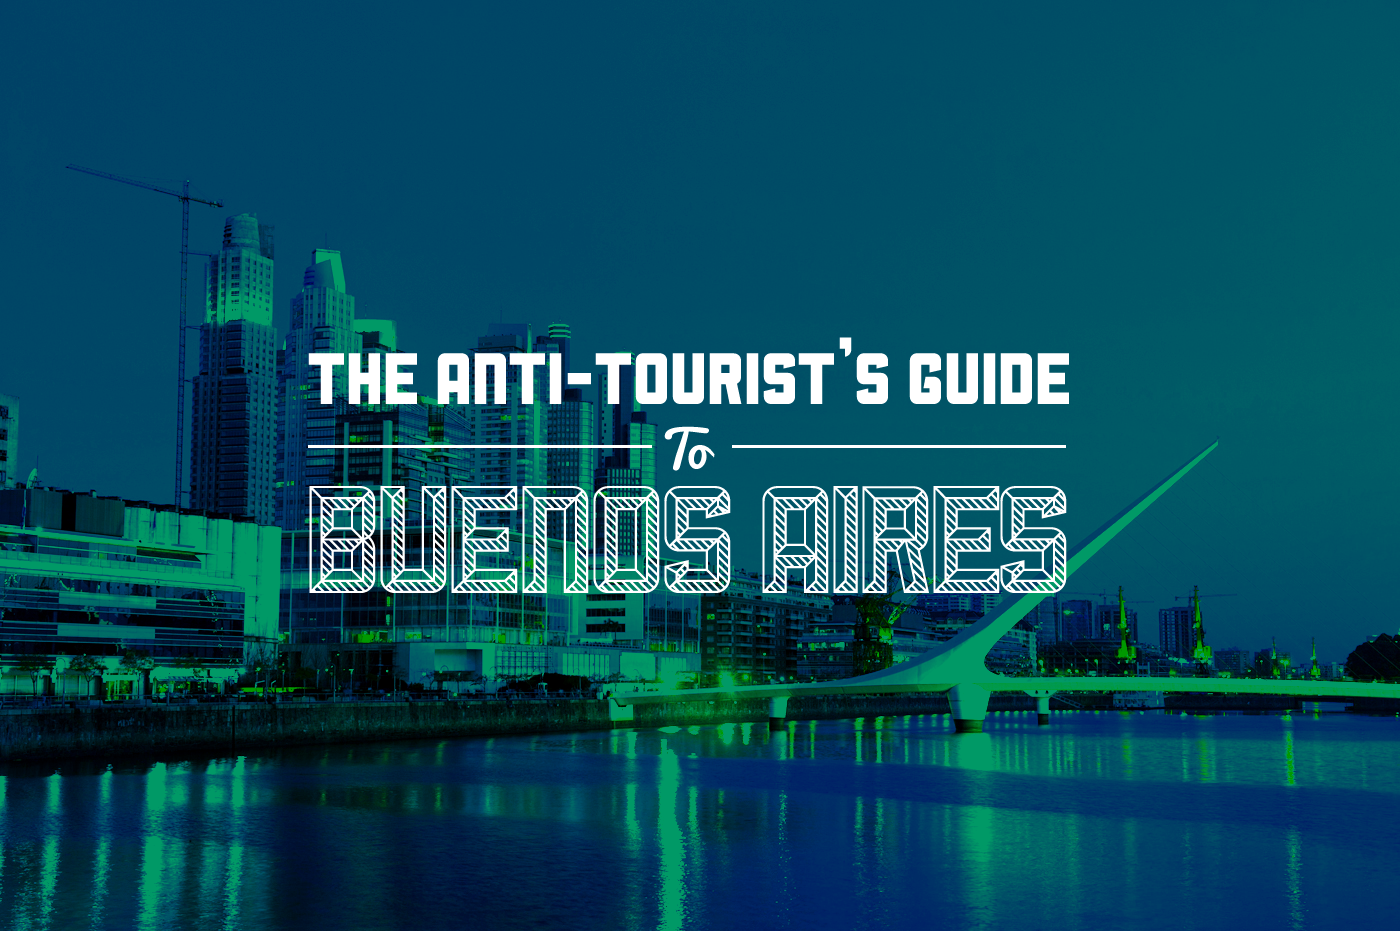
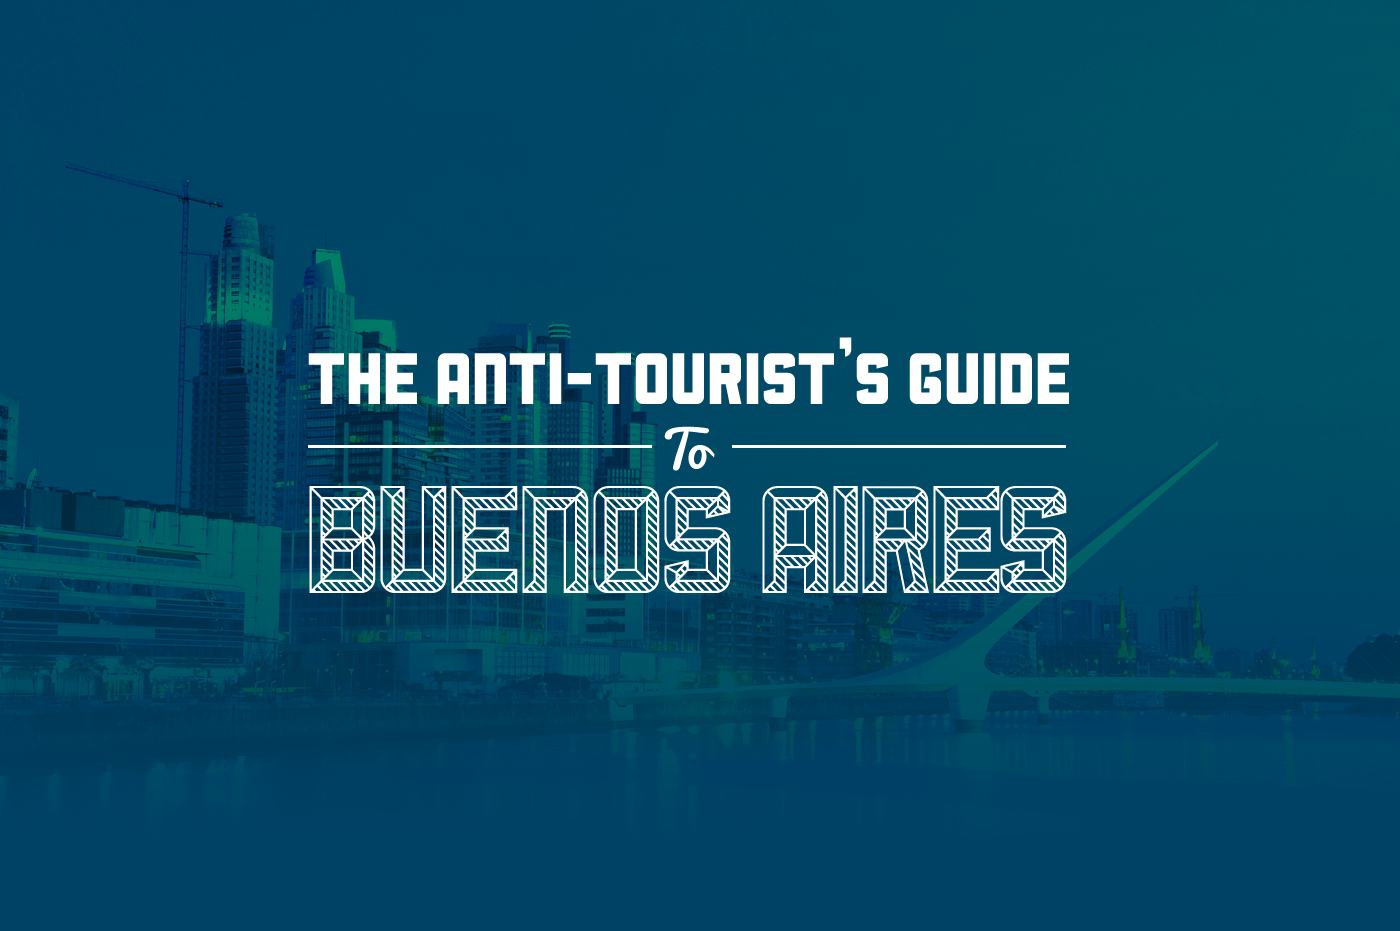
Added gradient to header and photos to neighborhoods section.

diff --git a/index.html b/index.html
@@ -22,7 +22,7 @@
     <style type="text/css" media="screen">
 
 .inverse {
-    background: #415b76;
+    background: #004266;
     color: #fff;
 }
 
@@ -38,18 +38,20 @@
     background: url('images/buenos-aires-header.png') no-repeat 50% 50%;
     background-size: cover;
     height: 931px;
-    margin-top: -5px;
 }
 
 .banner h1,
 .banner h2,
 .banner h3 {
-    font-size: 12px;
-    text-indent: -10000px;
+    display: none;
 }
 
 section {
     padding: 20px 0;
+}
+
+.intro {
+    margin-top: -40px;
 }
 
 section p:last-child {
@@ -59,6 +61,15 @@ section p:last-child {
 p, li {
     font-size: 18px;
     line-height: 120%;
+}
+
+.avatar {
+    text-align: center;
+}
+
+.avatar img {
+    border: 3px solid #FFF;
+    border-radius: 3px;
 }
 
 @media (max-width: 767px) {
@@ -86,46 +97,66 @@ p, li {
           <h1>Buenos Aires</h1>
       </div><!-- /banner -->
       
-      <section>
+      <section class="inverse intro">
           <div class="container">
             <div class="row">
-                <div class="span6 offset3">
+                <div class="span3 offset2">
+                    <p class="avatar"><img src="https://si0.twimg.com/profile_images/3134548196/76a8dc0dfdad1e3b76273266edb0caed.jpeg" alt="Kate Click"></p>
                     
-                    <p class="lead">Hi, I'm Kate Click! I lived in Argentina for a year and these are my notes from my time there.</p>
+                </div><!-- /span3 -->
+                <div class="span5">
 
-                    <img src="images/exaple-image.jpg" alt="exaple-image" width="462" height="308" class="img-rounded">
+
                     
-
-                    <p>To go places and do things that have never been done before – that’s what living is all about.</p>
-
-                    <p>The dreams of yesterday are the hopes of today and the reality of tomorrow.</p>
-
-                    <p>Many say exploration is part of our destiny, but it’s actually our duty to future generations and their quest to ensure the survival of the human species.</p>
-
-                    <p>You know, being a test pilot isn't always the healthiest business in the world.</p>
+                    <p class="lead">Hi, I'm Kate Click! I lived in Argentina for a year and these are my notes from my time there. Many say exploration is part of our destiny, but it’s actually our duty to future generations and their quest to ensure survival.</p>
                 </div><!-- /span6 offset3 -->
             </div><!-- /row -->
           </div><!-- /container -->
     </section>
       
-      <section class="inverse">
+      <section>
           <div class="container">
+              <div class="row">
+                    <h2 class="span12">Neighborhoods</h2>
+              </div><!-- /row -->
             <div class="row">
-                <div class="span3">
-                    <img src="http://pesatalk.com/wp-content/uploads/2012/11/Buenos-Aires.jpg">
-                    <p class="img-comment"><strong>Name of the place -</strong> gravida at eget metus. Duis mollis, est non commodo.</p>
-                </div><!-- /span3 -->
-                <div class="span6">
-                    <h2>Neighborhoods</h2>
-                    <p><strong>Palermo:</strong> The biggest neighborhood in the city, Palermo is the home base for local yuppies and foreign expats. </p>
-                    <p><strong>Villa Crespo:</strong> Villa Crespo lies south of Cordoba opposite Palermo, and is its larger neighbor's more mellow counterpart. Locals head here for its outlet shops and quaint cafes without the touristy prices and noise of more mainstream areas. </p>
-                    <p><strong>Amalgro:</strong> </p>
-                </div><!-- /span6 -->
+                <div class="span12">
+                    <p><strong>Plaza Armenia</strong> is a particularly pleasant place to be on weekends, as it has all the charm of local drum teams and merchants without the noise of tourists and trinket peddlers. Grab a bottle of wine, lay in the grass, and watch the world go by. </p>
+                    <img src="https://www.evernote.com/shard/s47/share/6ee7-s47-c1590bf558db896f80789bf1293484b6-2/res/93cc3192-dcd0-40d3-93f7-39928bc4e1af/DSC_1839.JPG?resizeSmall&width=1096">
+                </div><!-- /span12 -->
+            </div>
+            <div class="row" style="margin-top: 40px;">
+                <div class="span4">
+                    <img src="http://perpetualroads.com/wp-content/uploads/2011/12/buenosaires-palermo-serranonight.jpg">
+                    <p class="img-comment"><strong>Palermo -</strong> The biggest neighborhood in the city, Palermo is the home base for local yuppies and foreign expats. Worth a visit for its solid shopping and restaurants, Palermo also has its share of tourist traps (cough…Plaza Serrano…cough). Stay on the edges of the neighborhood in areas like Palermo Soho, Palermo Hollywood, or Palermo Chico to get a more local sense of the place.</p>
+                </div><!-- /span4 -->
+                <div class="span4">
+                    <img src="http://8020.photos.everywheremag.com.s3-website-us-east-1.amazonaws.com/27250_4926_m.jpg">
+                    <p class="img-comment"><strong>Villa Crespo -</strong> lies south of Cordoba opposite Palermo, and is its larger neighbor's more mellow counterpart. Locals head here for its outlet shops and quaint cafes without the touristy prices and noise of more mainstream areas.</p>
+                </div><!-- /span4 -->
+                <div class="span4">
+                    <img src="http://cdn.gringoinbuenosaires.com/wp-content/uploads/2010/02/almagro.jpg">
+                    <p class="img-comment"><strong>Almagro -</strong> Amalgro is a true locals neighborhood and a fairly accurate representation of everyday life in middle class BA. It's also home to Bomba del Tiempo, an improv drum show that takes place every Monday night and draws hoards of travelers and young locals, alike.</p>
+                </div><!-- /span4 -->
             </div><!-- /row -->
+            <div class="row" style="margin-top: 40px;">
+                <div class="span12">
+                    <p><strong>Recoleta:</strong> Home to the famed cemetario of the same name (see below), Recoleta is home to monied (likely older) tourists, old-money aristocrats, and international embassies. See it for a glimpse at what BA was in its 'Paris of the South' golden years, but don't stay for the overhyped and overpriced shops. You'll get better bargains and a more authentic sense of the city elsewhere.</p>
+                    <img src="https://www.evernote.com/shard/s47/share/6ee7-s47-c1590bf558db896f80789bf1293484b6-2/res/528e2aab-dc3d-48a1-8f60-b74ded390201/DSC_1713_Snapseed.jpg?resizeSmall&width=1096">
+                </div><!-- /span12 -->
+            </div><!-- /row -->
+            
+            
+            
+            
+            
+            
+            
+            
           </div><!-- /container -->
      </section>
      
-     <section>
+     <section class="gray">
          <div class="container">
             <div class="row">
                 <div class="span6 offset3">
@@ -145,7 +176,7 @@ p, li {
          </div><!-- /container -->
      </section>
       
-      <section class="gray">
+      <section>
           <div class="container">
             <div class="row">
                 <div class="span6 offset3">
@@ -160,7 +191,7 @@ p, li {
           </div><!-- /container -->
      </section>
      
-     <section>
+     <section class="inverse">
          <div class="container">
             <div class="row">
                 <div class="span6 offset3">
@@ -179,7 +210,7 @@ p, li {
          </div><!-- /container -->
      </section>
       
-      <section class="inverse">
+      <section>
           <div class="container">
             <div class="row">
                 <div class="span6 offset3">
